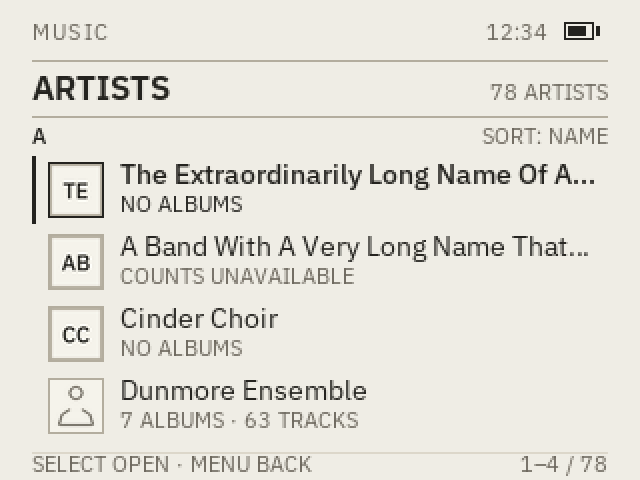
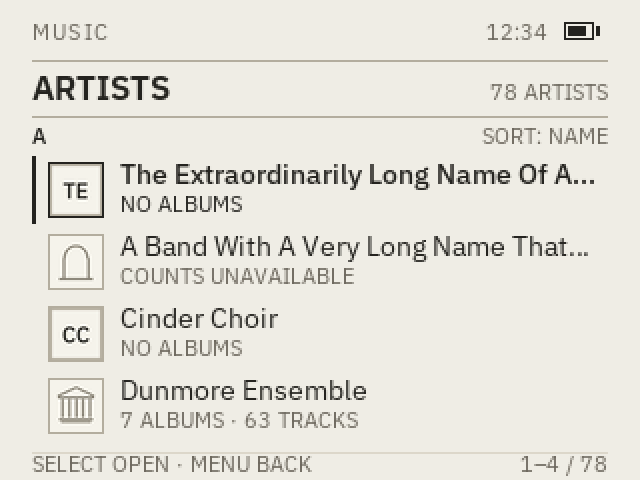
Docs: record the treatment, the follow-up review and the honest mockups (#61)
The four treatment PRs are merged; this records what they did, what the
re-review found, and makes the committed mockups stop contradicting each other.

- `docs/handoff.md` gains the twenty-first block: each fix in one line, the host
  evidence behind it, and the things that were deliberately not done (the Music
  hub is still a second launcher, the splash states still differ only by colour).
- `docs/log/2026-11-21.md` gains the treatment entry with PR numbers.
- `.unslopovich/visits/2026-11-21-1605-follow-up.md` re-scores the treated
  surfaces with the same six categories: firmware 13 -> 17/24, companion
  10 -> 16/24, splash 14 -> 17/24. It keeps the remainder on the record instead
  of declaring victory: the artist tab row has no on-glass hint and is the
  biggest open item, `PLAYING` carries a transport glyph it does not own, the
  splash states are indistinguishable without colour, and frame time is not
  profiled.
- `.unslopovich/chart.md` accepts the companion's light-only window, the tab-row
  gesture as it now behaves, and the readable splash label colours.
- Renderer honesty: `artist_portrait()` drew a person glyph for an artist with
  art and a monogram for one without, which contradicted `docs/ui.md` 6.4 and
  read as favouritism; and the same artist carried `12 ALBUMS / 148 TRACKS` in
  the list and `4 ALBUMS / 42 TRACKS` on its own page. Each row now has its own
  generated line art, missing art is a monogram everywhere, and the counts agree.
[…]

Changed region(s): [[0.0625, 0.4688, 0.1562, 0.625], [0.0938, 0.7812, 0.1562, 0.9062]]

diff --git a/tools/render-ui-mockup.py b/tools/render-ui-mockup.py
@@ -1334,13 +1334,17 @@ def sleeve_placeholder(size):
     return art.resize((size, size), Image.Resampling.LANCZOS)
 
 
-def artist_portrait(size, name, has_art):
-    if not has_art:
+def artist_portrait(size, name, art_kind):
+    """Generated line art when there is art, monogram when there is not.
+
+    The firmware draws a monogram for a missing image and generated line art
+    otherwise; it never draws a person glyph. Passing a `kind` here keeps the
+    committed mockups honest and keeps one artist looking the same on every
+    screen.
+    """
+    if art_kind is None:
         return monogram_image(size, name)
-    art = Image.new("RGB", (size, size), HOME_PAPER_LIGHT)
-    icon = launcher_icon(size, "artist", HOME_MUTED)
-    art.paste(icon, (0, 0), icon)
-    return art
+    return cover_art(size, art_kind)
 
 
 def draw_rating(draw, right, baseline, rating):
@@ -1399,22 +1403,22 @@ def draw_artists_list(long_names=False):
                      (204, 60, 100, 14), "artists sort", HOME_MUTED)
 
     names = (
-        ("Aurora Strings", "12 ALBUMS · 148 TRACKS", True),
-        ("Bellweather Trio", "4 ALBUMS · 42 TRACKS", True),
-        ("Cinder Choir", "NO ALBUMS", False),
-        ("Dunmore Ensemble", "7 ALBUMS · 63 TRACKS", True),
+        ("Aurora Strings", "4 ALBUMS · 42 TRACKS", "wave"),
+        ("Bellweather Trio", "2 ALBUMS · 19 TRACKS", "record"),
+        ("Cinder Choir", "NO ALBUMS", None),
+        ("Dunmore Ensemble", "7 ALBUMS · 63 TRACKS", "columns"),
     )
     if long_names:
         names = (
             ("The Extraordinarily Long Name Of A Contemporary Chamber Ensemble",
-             "NO ALBUMS", False),
+             "NO ALBUMS", None),
             ("A Band With A Very Long Name That Must Be Truncated In The List",
-             "COUNTS UNAVAILABLE", False),
-            ("Cinder Choir", "NO ALBUMS", False),
-            ("Dunmore Ensemble", "7 ALBUMS · 63 TRACKS", True),
+             "COUNTS UNAVAILABLE", "arch"),
+            ("Cinder Choir", "NO ALBUMS", None),
+            ("Dunmore Ensemble", "7 ALBUMS · 63 TRACKS", "columns"),
         )
 
-    for index, (name, counts, has_art) in enumerate(names):
+    for index, (name, counts, art_kind) in enumerate(names):
         y = 78 + index * 36
         selected = index == 0
         if selected:
@@ -1423,7 +1427,7 @@ def draw_artists_list(long_names=False):
         require_rect(24, y + 3, 28, 28, f"artist row {index + 1} art")
         draw.rectangle((24, y + 3, 51, y + 30),
                        outline=HOME_INK if selected else HOME_RULE, width=1)
-        art = artist_portrait(26, name, has_art)
+        art = artist_portrait(26, name, art_kind)
         image.paste(art, (25, y + 4))
         title_font = ui_font(14, 500 if selected else 400)
         put_fitted(draw, name, title_font, 60, y + 14, 244,
@@ -1465,7 +1469,8 @@ def draw_artist_view(tab, empty_overview=False, tab_focused=False):
 
     require_rect(256, 32, 44, 44, "artist portrait")
     draw.rectangle((256, 32, 299, 75), outline=HOME_RULE, width=1)
-    portrait = artist_portrait(42, name, not empty_overview)
+    portrait = artist_portrait(42, name,
+                               None if empty_overview else "wave")
     image.paste(portrait, (257, 33))
 
     require_rect(16, 84, 288, 1, "artist identity rule")

diff --git a/docs/handoff.md b/docs/handoff.md
@@ -12,6 +12,98 @@ file grows. Do not rely on chat history for current state.
 
 ---
 
+# Handoff — 2026-11-21 (twenty-first block: the review becomes four fixes)
+
+## What happened
+
+- The owner approved **every** treatment batch the twentieth block proposed and
+  asked for `.unslopovich/chart.md`. Four PRs landed, one per surface, each with
+  its own tests and its own "no device run" note:
+  - **#57 firmware Music flow.** Footers rule at 226 and speak one grammar
+    (`MENU BACK` / `SELECT OPEN`); empty lists say `NO TRACKS IN LIBRARY`; the
+    error screen maps the player stage to a cause sentence, says what SELECT
+    does and drops the duplicate mapping and the `OUT -` row; `STOPPED AT THE
+    START` when nothing played; OPENING keeps its footer instead of
+    `PLEASE WAIT`; `YEAR -`, a lone dash and unrated stars are gone; the artist
+    tab row and the Overview facts line lose their counts; the visualizer
+    baseline moves FAINT (1.23:1) -> RULE; the wall caption uses a middle dot.
+    `tools/render-ui-mockup.py` also stopped crashing: `render_legacy()` used
+    `extend` on single-path mockups, and a default run now skips the legacy group
+    with a note when the owner's licensed Benguiat faces are unreadable.
+  - **#58 artist tab row.** It is now the focus stop `docs/ui.md` 6.5 always
+    described: the wheel enters it from the first body item, the wheel up steps
+    back through tabs, the wheel down returns to the body, LEFT/RIGHT change the
+    tab while focused and move the body selection otherwise, SELECT returns, and
+    MENU keeps its one meaning. Labels moved to x=26/94/178 so the 2x16 focus
+    bar keeps an 8 px gutter and nothing shifts on focus.
+  - **#59 companion.** The welcome is a first-run card
+    (`com.helikon.companion.hasSeenSplash`, `--skip-splash` still works, the app
+    menu reopens it); the 248 pt rail is a single top band; the window floor is
+    720x480 and it opens at 900x508; `HColor.faint` (2.22:1) is gone and every
+    text use is `muted` (4.72:1) with the floors recorded in the palette; the
+    app-wide `NSApplication.appearance` override is dropped, so only the window
+    stays light.
+  - **#60 boot splash label.** The label colours moved to
+    `bootloader/splash_label.h`: deep green `#007A3D` (4.79:1 on panel) and deep
+    red `#C81E1E` (4.78:1), from 2.10:1 and 3.14:1. No owner artwork, palette or
+    mask byte changed. `tests/bootloader/test_splash_color.c` measures the
+    RGB565 values the panel shows and fails below 4.5:1.
+- `.unslopovich/chart.md` records the standing context and the accepted
+  exceptions (paper palette and serif, 11 px caps on a fixed 320x240 panel, muted
+  5.00:1, no dark mode or text scaling, owner boot artwork, no footer hint row on
+  artist and album pages, `SORT: NAME` as truthful inert metadata).
+- The firmware report's visualizer item was **corrected** in its visit file: the
+  baseline was always drawn; the defect was 1.23:1 contrast, not a missing row.
+- The mockups were made honest about generated art. `artist_portrait()` drew a
+  person glyph for an artist with art and a monogram for one without, so the
+  artists list looked like favouritism and contradicted `docs/ui.md` 6.4, and
+  the same artist carried different counts on the list and on its own page.
+  Each artist now has its own generated line art, missing art is a monogram
+  everywhere, and the counts agree across screens.
+- A follow-up review re-scored the treated surfaces and left the remaining
+  problem on the record: firmware 13 -> 17/24, companion 10 -> 16/24, splash
+  14 -> 17/24 (`.unslopovich/visits/2026-11-21-1605-follow-up.md`). The biggest
+  open item is discoverability, not correctness: the artist tab row is reachable
+  only by scrolling up past the first item and no footer mentions it, so two of
+  the three panes can stay invisible to a first-time user.
+
+## Evidence (host only, no device run)
+
+- `make -C tests/ui test` PASS, including new probes for the focused tab row (bar
+  absent at rest, 2 px wide when focused, underline kept) and the reworded error
+  screen.
+- 34 music-flow and now-playing PNGs re-rendered from the changed code path and
+  byte-identical across two clean runs; `clipping-check.txt` PASS.
+- Plain 6G image 80,004 B; music-hub image 768,184 B with MP3 linked; F2 image +
+  `./tools/check-f2-artifact.sh` PASS.
+- hfsplus, vfs, firmware, bootloader (test + sanitize, with the new splash
+  colour check), image (test, loader-test), codec and musicdb suites PASS.
+- Companion: `swift build` PASS, `scripts/build-app.sh --debug` PASS, a host
+  harness compiled against the shipped `AppModel.swift` proves first-run ->
+  persisted -> skipped -> reopened, and the launched window measures 900x508.
+  Screenshots are still refused (Screen Recording), so nothing visual was seen.
+- Loader test image is now `8c161d0e…` (106,760 bytes); the same tree with the
+  previous label colours builds `90925547…` at the same size, so the colour change
+  adds no bytes. It has **not** been on a device.
+
+## Open / next
+
+- **Dropped, not done:** the Music hub is still a second launcher. Removing it
+  (`draw_hub`, `run_hub`, `helikon_music_hub_*`, `tools/make-launcher-assets.py`,
+  docs and tests) is a navigation change the owner has not answered, and the hub
+  is the only pinned second entry point while the launcher cells are stubs.
+- The boot splash states still differ by colour alone. Different words or a shape
+  live in the owner mask: an owner decision, recorded in the asset README.
+- The splash label change invalidates the device-tested loader hash. The last
+  device-tested image remains `6bc6927c…`; the new build needs a run before any
+  claim.
+- Not fixed from the review: the `--:--` / `FONT FALLBACK` clock slot in
+  `draw_top_bar()` (the firmware cannot read the RTC without the clock HAL being
+  wired into that path), five launcher cells that open a build note, and
+  `SORT: NAME` staying inert (accepted in the chart).
+
+---
+
 # Handoff — 2026-11-21 (twentieth block: every interface reviewed)
 
 ## What happened

diff --git a/.unslopovich/visits/2026-11-21-1605-follow-up.md b/.unslopovich/visits/2026-11-21-1605-follow-up.md
@@ -1,0 +1,84 @@
+# Dr. Unslopovich — follow-up, four surfaces
+
+```text
+Verdict: Four fixes, and the screens now mean what they say. What they still don't do
+         is tell a thumb where to go: the artist page hides two of its three panes
+         behind a gesture nothing on the glass announces.
+Reviewed: the treated screens only, from the committed renders and the code that
+          draws them. Companion is from code; screenshots are still refused.
+Before -> after (my re-score, same six categories, 4 each):
+  firmware Music flow   13 -> 17 / 24
+  macOS companion       10 -> 16 / 24
+  bootloader splash     14 -> 17 / 24
+```
+
+## Firmware Music flow — 13 → 17
+
+| Category | Before | After | Why |
+|---|---|---|---|
+| Task path | 1 | 3 | Nothing blocks the path; the artist tab row is a real focus stop |
+| Truth | 2 | 3 | Invented `OUT —`, duplicate mapping and `PLEASE WAIT` gone; `--:--` clock and stub launcher cells remain |
+| Native fit | ~2 | 3 | One grammar for footers, one meaning per button, wheel enters and leaves the tab row |
+| States | ~2 | 3 | `NO TRACKS IN LIBRARY`, `STOPPED AT THE START`, a cause sentence per stage |
+| Access | 1 | 2 | Contrast fine; no text scaling by design; state no longer carried by colour |
+| Specificity | 2 | 3 | The audio-pipeline readout and the serif carry identity |
+
+**Still open, and it is the biggest thing on this surface:** the tab row is
+reachable only by scrolling up past the first item, and neither the artist nor
+the album page has a footer hint. The focus bar at x=16 is a 2×16 tick that
+moves; a first-time user reads it as a caret if they see it at all. Three panes
+sit behind a gesture the glass never mentions. Fixing it costs ~14 px of body
+band, which the paper currently declares full: an owner layout decision, not a
+patch.
+
+Also open: `▶ PLAYING` in the now-playing state line reads as a transport control
+on a device with a play button. The word carries the meaning; the glyph adds a
+false affordance. Removing or replacing it is cosmetic but should be decided.
+
+## macOS companion — 10 → 16
+
+| Category | Before | After | Why |
+|---|---|---|---|
+| Task path | 1 | 3 | The welcome no longer gates every launch |
+| Truth | 1 | 3 | One note on the page, not four; the version sits in the band |
+| Native fit | 2 | 3 | A top band instead of an empty rail; window floor 720×480 |
+| States | 1 | 2 | Still nothing to state: no data, no empty state that means anything yet |
+| Access | 1 | 3 | Every text use is `muted` 4.72:1; no lighter colour exists to misuse |
+| Specificity | 2 | 2 | Paper, ink and the mountain mark, and not much else yet — honestly so |
+
+Read from code only. `screencapture` is still refused, so the layout is judged by
+its constants, not by eye. That is a limit of this review, not a pass.
+
+## Bootloader splash — 14 → 17
+
+| Category | Before | After | Why |
+|---|---|---|---|
+| Task path | 3 | 3 | Unchanged: the splash is a status, not a task |
+| Truth | 2 | 3 | The label is legible now; it still says the same words for pass and fail |
+| Native fit | 3 | 3 | Owner artwork untouched |
+| States | 2 | 3 | Three states, all readable |
+| Access | 1 | 2 | 4.79:1 and 4.78:1, measured on RGB565 — but colour is the only cue |
+| Specificity | 3 | 3 | The illustration is the identity |
+
+**Still open:** pass and fail are the same two words in two hues at nearly the
+same luminance, so a red/green colour-blind reader cannot tell them apart. The
+words live in the owner mask. A shape or a word in the mask is the fix, and it
+needs the owner's PNGs.
+
+## What changed for the better, concretely
+
+- 34 firmware PNGs re-rendered from the code the device runs, not hand-drawn.
+- The four mockups of the same artist now agree with each other: same counts,
+  same generated cover, and one no-art rule (monogram). The artists list used to
+  give one artist a bust glyph and another a monogram, which read as favouritism
+  and contradicted `docs/ui.md` 6.4.
+- Long-name rows, empty states and the error screen were re-proved by pixel
+  probes in `tests/ui`, so the next change cannot quietly undo them.
+
+## Not checked
+
+- No click wheel was used. The navigation is correct in code and pixel probes;
+  whether a thumb finds the tab row is exactly the open question above.
+- No companion screenshots and no device run anywhere.
+- Frame time is still not profiled: the review is static, and the firmware
+  repaints the whole panel per step.

diff --git a/docs/log/2026-11-21.md b/docs/log/2026-11-21.md
@@ -845,3 +845,40 @@ interface behaviour was changed.
 7. **Saved**: `.unslopovich/visits/2026-11-21-1529-firmware-music-ui.md`,
    `…-1531-companion.md`, `…-1533-boot-splash.md`. No `.unslopovich/chart.md`
    yet; offering it so the accepted exceptions are recorded once.
+
+## Treatment — the review becomes four fixes (afternoon)
+
+1. **Approved scope.** The owner answered "All of them" for the safe defects and
+   the re-render, the navigation change, the companion polish and the splash
+   artwork, and "Yes, create it" for `.unslopovich/chart.md`.
+2. **Firmware Music flow (#57).** Footer grammar and baselines unified, named
+   empty states, error screen rewritten as cause + action + footer, `PLEASE WAIT`
+   removed, unknown values omitted instead of dashed, unrated draws nothing,
+   artist counts dropped, visualizer baseline on RULE, wall caption on a middle
+   dot. `tools/render-ui-mockup.py` no longer crashes on a default run: the
+   legacy group collects single paths with `append` and skips with a note when
+   the licensed Benguiat faces are unreadable.
+3. **Artist tab row (#58).** Implemented the focus stop `docs/ui.md` 6.5 already
+   specified: wheel up enters, wheel up/down step tabs or return to the body,
+   LEFT/RIGHT switch tabs while focused and move the body selection otherwise,
+   SELECT returns, MENU keeps one meaning. Tab labels moved to x=26/94/178 for
+   the 2x16 focus bar; a new `artist-tab-focus` mockup and pixel probes lock it.
+4. **Companion (#59).** The welcome is a first-run card with persisted dismissal,
+   the empty 248 pt rail became one top band, the window floor is 720x480, the
+   2.22:1 `faint` colour is gone, and the app-wide appearance override is
+   dropped. `swift build`, the debug bundle and a host harness on the shipped
+   `AppModel.swift` pass; the window measures 900x508.
+5. **Boot splash (#60).** Label colours to `bootloader/splash_label.h`, deep
+   green `#007A3D` and deep red `#C81E1E` (4.79:1 and 4.78:1 on panel, from
+   2.10:1 and 3.14:1), guarded by `tests/bootloader/test_splash_color.c`. The
+   loader image is `8c161d0e…` (106,760 bytes) and has no device run; a build of
+   the same tree with the old colours is `90925547…` at the same size.
+6. **Follow-up review.** `.unslopovich/visits/2026-11-21-1605-follow-up.md`
+   re-scores the three surfaces (13 → 17, 10 → 16, 14 → 17 out of 24) and keeps
+   the honest remainder: the artist tab row has no on-glass hint, the
+   now-playing glyph reads as a transport control, the splash still distinguishes
+   pass from fail by colour alone, and frame time is unprofiled.
+7. **Mockup honesty.** The artists list gave an artist with art a person glyph and
+   an artist without art a monogram, and carried different counts for the same
+   artist than its own page. Both fixed in the renderer; the 34 music-flow PNGs
+   were re-rendered and are byte-identical across runs.

diff --git a/.unslopovich/chart.md b/.unslopovich/chart.md
@@ -42,8 +42,15 @@ Everything on screen is read at arm's length on a 2.5-inch panel.
   grammar is taught on the list pages (owner, 2026-11-21).
 - `SORT: NAME` on list headers: inert, truthful metadata the owner wants to keep even
   though the wheel cannot change it yet (owner, 2026-11-21).
-- Companion window is a fixed two-column shell with a 248 pt rail: it holds the source
-  and destination panes the owner asked for (owner, 2026-11-21).
+- Companion window is light-only: the palette has no dark variant, so the window keeps
+  `preferredColorScheme(.light)` while the app no longer overrides the system
+  appearance for sheets and menus (owner, 2026-11-21).
+- The artist tab row is a focus stop entered by scrolling up past the first body item,
+  with no footer hint row. Accepted for now because the body bands are full; revisit if
+  a device run shows the panes are unfindable (owner, 2026-11-21).
+- Boot splash label colours are deep green `#007A3D` and deep red `#C81E1E` rather than
+  the owner artwork's `#00BF63` / `#FE3131`, so the 9 px label clears 4.5:1. The mask and
+  illustration are untouched (owner, 2026-11-21).
 
 ## Off limits
 - The root `README.md` and `docs/design-paper.md`: owner-authored product intent.
